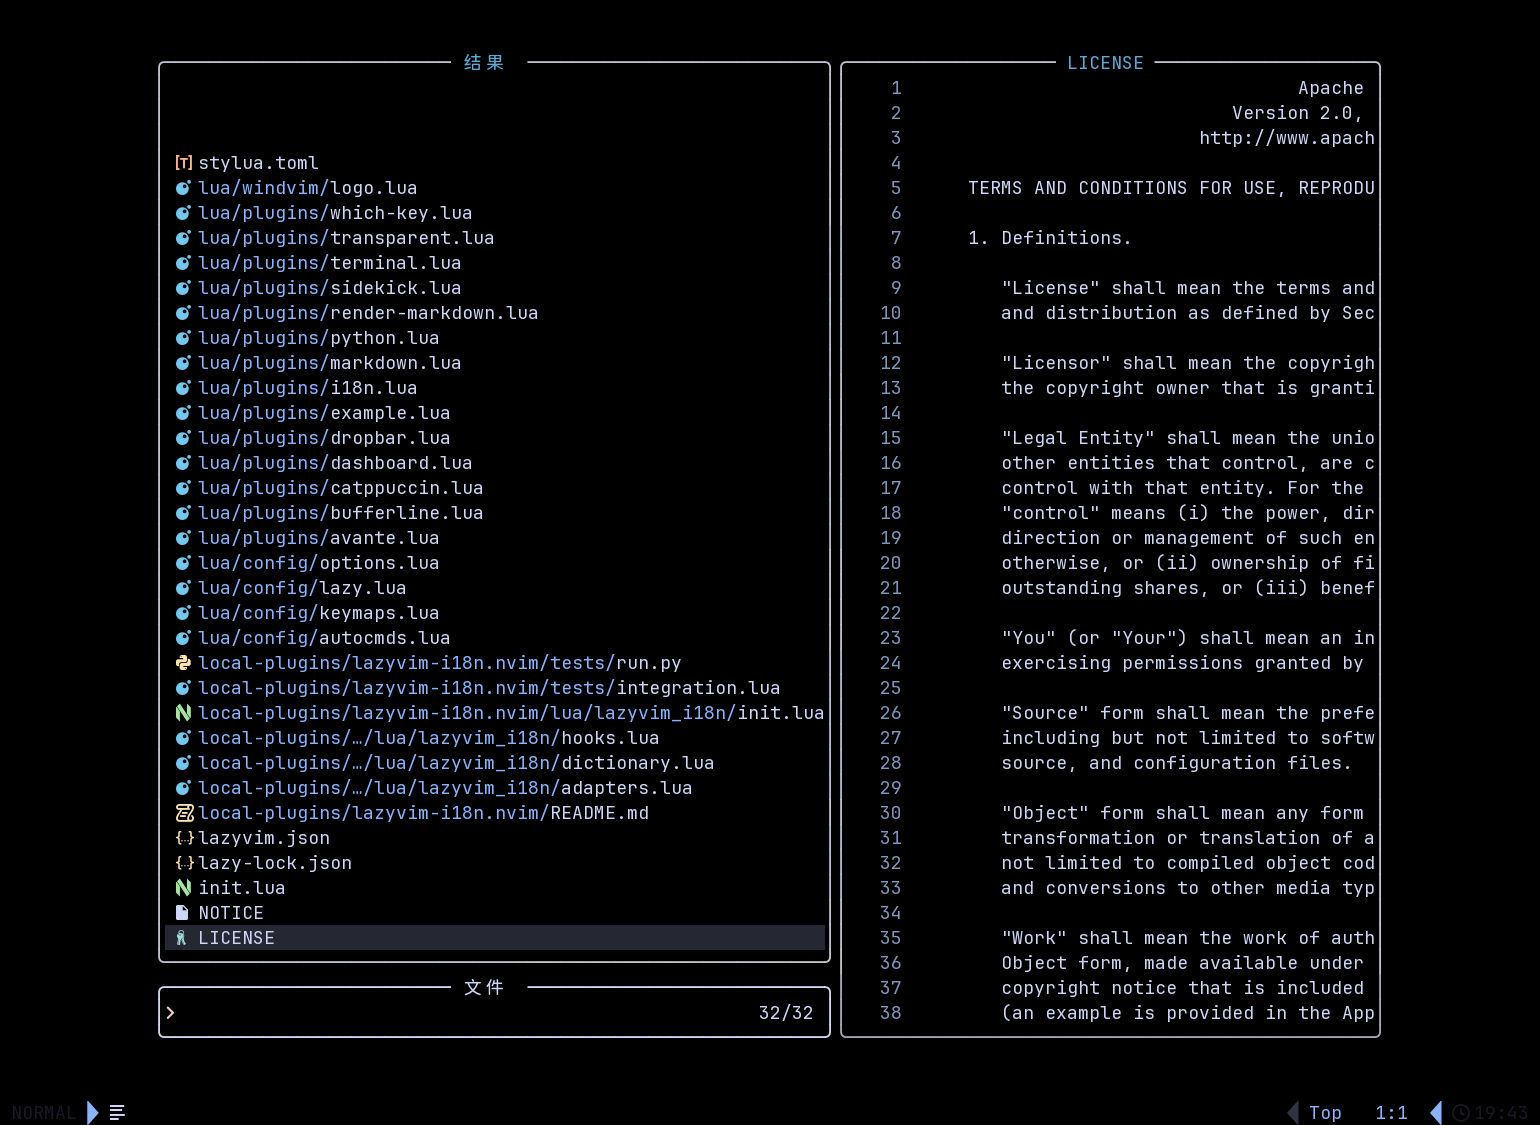
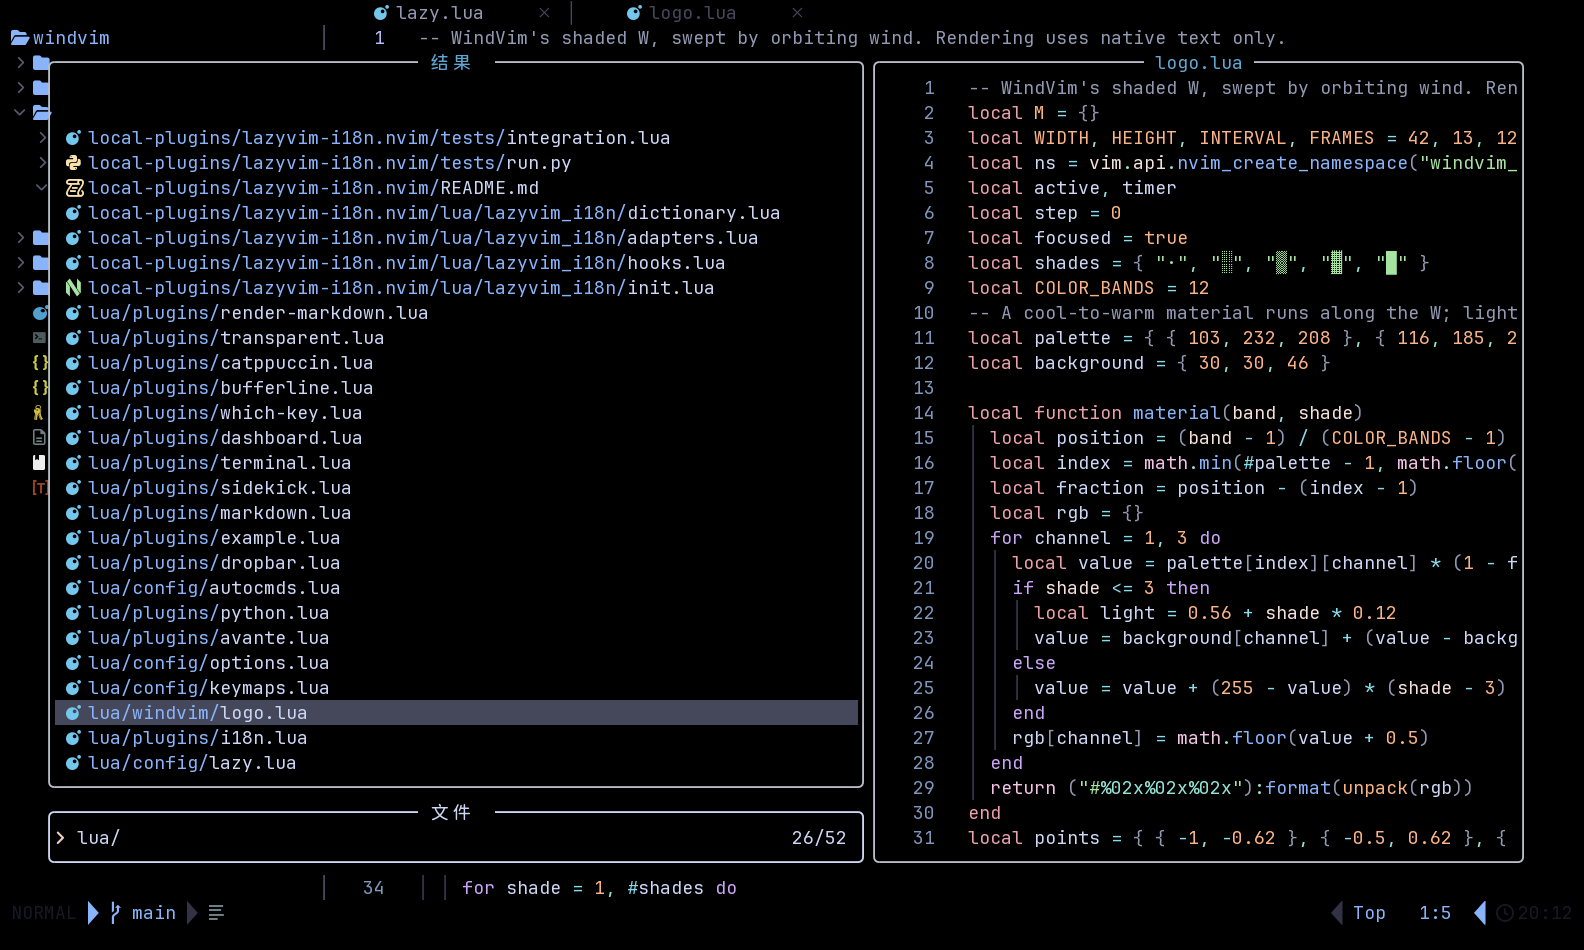
docs(demo): 使用真实项目工作区重录演示素材
展示 WindVim 目录树、动态启动页、源码编辑与代码搜索，全宽展示截图以提升可读性。

增加可复现的隔离录制入口，使用逐帧确认与字形缓存确保素材完整生成；本机配置保持不变。

diff --git a/local-plugins/lazyvim-i18n.nvim/tests/run.py b/local-plugins/lazyvim-i18n.nvim/tests/run.py
@@ -11,7 +11,7 @@ import pynvim
 from PIL import Image, ImageDraw, ImageFont
 
 root = Path(__file__).resolve().parents[3]
-os.chdir(root)
+os.chdir(os.environ.get("I18N_TEST_CWD", root))
 output = Path(os.environ.get("I18N_SCREENSHOT_DIR", root / ".tests/i18n")).resolve()
 output.mkdir(parents=True, exist_ok=True)
 font_candidates = [
@@ -29,6 +29,7 @@ braille_path = os.environ.get("I18N_BRAILLE_FONT", "/usr/share/fonts/TTF/DejaVuS
 braille_font = ImageFont.truetype(braille_path, 18) if Path(braille_path).is_file() else font
 grids, colors = {}, {0: {}}
 animation_frames = []
+glyph_masks = {}
 default_fg, default_bg = "#cdd6f4", "#1e1e2e"
 
 
@@ -72,7 +73,7 @@ def notification(method, args):
                             grids[grid][row][col] = (cell[0], hl)
                             col += 1
     elif method == "i18n_snapshot":
-        rows = grids[1]
+        rows = args[1] if len(args) > 1 else grids[1]
         image = Image.new("RGB", (len(rows[0]) * 11, len(rows) * 25), default_bg)
         draw = ImageDraw.Draw(image)
         for y, row in enumerate(rows):
@@ -88,9 +89,16 @@ def notification(method, args):
                 fg = color(attrs.get("background" if attrs.get("reverse") else "foreground"), default_fg)
                 cell_font = braille_font if char and 0x2800 <= ord(char[0]) <= 0x28FF else font
                 if char.strip():
-                    draw.text((x * 11, y * 25), char, font=cell_font, fill=fg)
+                    key = (char, cell_font is braille_font)
+                    if key not in glyph_masks:
+                        mask = Image.new("L", (33, 25))
+                        ImageDraw.Draw(mask).text((0, 0), char, font=cell_font, fill=255)
+                        glyph_masks[key] = mask
+                    image.paste(fg, (x * 11, y * 25, x * 11 + 33, y * 25 + 25), glyph_masks[key])
         if args[0] == "dashboard-animation":
             animation_frames.append(image.convert("P", palette=Image.Palette.ADAPTIVE, colors=64))
+            if len(animation_frames) % 12 == 0:
+                print(f"Captured animation: {len(animation_frames)} frames", flush=True)
         else:
             image.save(output / f"{args[0]}.png")
 
@@ -109,11 +117,19 @@ with tempfile.TemporaryDirectory(prefix="windvim-i18n-test-") as tmp:
     nvim = pynvim.attach(
         "child", argv=[os.environ.get("NVIM_BIN", "nvim"), "--embed", "-i", "NONE", "--cmd", disable_checker]
     )
-    nvim.ui_attach(140, 45, rgb=True, ext_linegrid=True)
+    nvim.ui_attach(int(os.environ.get("I18N_UI_WIDTH", "140")),
+                   int(os.environ.get("I18N_UI_HEIGHT", "45")), rgb=True, ext_linegrid=True)
     nvim.vars["i18n_test_channel"] = nvim.channel_id
-    nvim.exec_lua('dofile("local-plugins/lazyvim-i18n.nvim/tests/integration.lua")')
+    test_script = os.environ.get("I18N_TEST_SCRIPT", "local-plugins/lazyvim-i18n.nvim/tests/integration.lua")
+    nvim.exec_lua("dofile(...)", test_script)
+    def request(method, args):
+        if method != "i18n_snapshot":
+            raise RuntimeError(f"Unexpected Neovim request: {method}")
+        notification(method, args)
+        return True
+
     try:
-        nvim.run_loop(None, notification)
+        nvim.run_loop(request, notification)
     except EOFError:
         pass
     report = result.read_text() if result.exists() else "FAIL: Neovim exited without a result"

diff --git a/scripts/screenshots.py b/scripts/screenshots.py
@@ -1,0 +1,41 @@
+"""Capture WindVim itself in a temporary installation and a disposable project clone.
+
+uv run --with pynvim --with pillow python scripts/screenshots.py
+WINDVIM_DEMO_DATA can point to a compatible, already installed plugin cache.
+"""
+from pathlib import Path
+import os
+import subprocess
+import tempfile
+import time
+
+root = Path(__file__).resolve().parents[1]
+data_home = Path(os.environ.get('XDG_DATA_HOME', Path.home() / '.local/share'))
+cache = Path(os.environ.get('WINDVIM_DEMO_DATA', data_home / 'windvim')).expanduser().resolve()
+if not (cache / 'lazy/lazy.nvim').is_dir():
+    raise SystemExit('Start WindVim to install plugins first, or set WINDVIM_DEMO_DATA to an existing data directory')
+with tempfile.TemporaryDirectory(prefix='windvim-screenshots-') as tmp:
+    base = Path(tmp)
+    project = base / 'project/windvim'
+    subprocess.run(['git', 'clone', '--quiet', '--shared', str(root), str(project)], check=True)
+    env = dict(os.environ, XDG_CONFIG_HOME=str(base / 'config'), XDG_DATA_HOME=str(base / 'data'),
+               XDG_STATE_HOME=str(base / 'state'), XDG_CACHE_HOME=str(base / 'cache'),
+               UV_CACHE_DIR=str(Path(os.environ.get('UV_CACHE_DIR', Path.home() / '.cache/uv'))),
+               NVIM_APPNAME='windvim', I18N_TEST_CWD=str(project),
+               I18N_TEST_SCRIPT=str(root / 'scripts/screenshots.lua'),
+               I18N_SCREENSHOT_DIR=str(root / 'docs/screenshots'), I18N_UI_WIDTH='144', I18N_UI_HEIGHT='38')
+    env.pop('NO_COLOR', None)
+    subprocess.run(['bash', str(root / 'install.sh'), '--no-launcher'], env=env, check=True)
+    data = base / 'data/windvim'
+    data.mkdir(parents=True)
+    for name in ['lazy', 'site', 'mason']:
+        if (cache / name).is_dir():
+            (data / name).symlink_to(cache / name, target_is_directory=True)
+    started = time.time()
+    subprocess.run([os.sys.executable, str(root / 'local-plugins/lazyvim-i18n.nvim/tests/run.py')],
+                   env=env, check=True, timeout=120)
+    for name in ['dashboard-zh.png', 'dashboard-en.png', 'dashboard-animation.gif', 'project-code.png',
+                 'which-key-zh.png', 'picker-zh.png', 'lazy-zh.png']:
+        path = root / 'docs/screenshots' / name
+        if not path.is_file() or path.stat().st_mtime < started:
+            raise RuntimeError(f'Screenshot was not refreshed: {name}')

diff --git a/docs/GALLERY.md b/docs/GALLERY.md
@@ -2,19 +2,36 @@
 
 [返回首页](../README.md)
 
-以下图片由实际 Neovim UI 网格捕获，使用仓库锁定的插件版本；终端背景与字体会影响最终效果。
+以 WindVim 自身的源码项目作为演示，展示目录浏览、代码编辑、中文菜单和文件搜索。以下画面均来自实际 Neovim 界面。
 
-![WindVim 动态启动页](screenshots/dashboard-animation.gif)
+## 项目目录与动态启动页
 
-![WindVim 中文启动页](screenshots/dashboard-zh.png)
+![项目目录与动态启动页](screenshots/dashboard-animation.gif)
 
-<table>
-  <tr>
-    <td><img src="screenshots/which-key-zh.png" alt="中文快捷键菜单" /><br /><strong>中文快捷键菜单</strong> · 原有键位与动作保留</td>
-    <td><img src="screenshots/picker-zh.png" alt="中文文件选择器" /><br /><strong>文件选择器</strong> · 中文标题与路径原文</td>
-  </tr>
-  <tr>
-    <td><img src="screenshots/lazy-zh.png" alt="中文 Lazy 插件管理器" /><br /><strong>插件管理</strong> · 汉化常用操作与帮助</td>
-    <td><img src="screenshots/dashboard-en.png" alt="英文启动页" /><br /><strong>运行时切换英文</strong> · 自动保存语言选择</td>
-  </tr>
-</table>
+## 项目代码编辑
+
+左侧浏览项目目录，右侧编辑动态标识的 Lua 源码，顶部显示已打开的文件。
+
+![项目代码编辑](screenshots/project-code.png)
+
+## 中文快捷键菜单
+
+在编辑界面中查看文件导航相关快捷键。
+
+![中文文件导航快捷键](screenshots/which-key-zh.png)
+
+## 文件搜索与代码预览
+
+在项目中查找 Lua 文件，并直接预览对应源码。
+
+![项目文件搜索与代码预览](screenshots/picker-zh.png)
+
+## 插件管理
+
+![中文插件管理](screenshots/lazy-zh.png)
+
+## 英文界面
+
+同一个项目工作区可以切换为英文。
+
+![英文项目启动页](screenshots/dashboard-en.png)

diff --git a/spec/06-modules/presentation/spec.md b/spec/06-modules/presentation/spec.md
@@ -42,3 +42,12 @@
 - W 主体使用薄荷青 → 天蓝 → 鸢尾紫 → 柔粉的固定空间配色，保留五档深度明暗；风环降低亮度，粒子使用暖金色。静态 SVG 标识沿用同一色板。
 - 保留图形、动画与菜单行为，只改变 WindVim 项目配色；本机配置和 dotfiles 保持不变。
 - 验证：26 个 Lua 文件 / 3 个 JSON 检查与实际 UI 集成通过，重录 48 帧动图并同步截图；实际终端界面及 SVG 图标已查看。60 档主体颜色相对 Catppuccin 背景的最低对比度为 4.03:1；本地链接与原配置摘要检查通过。
+
+## 项目演示追加
+
+- 演示打开 WindVim 自身的项目，左侧真实目录树，右侧展示启动页或源码。搜索预览选择 logo.lua，避免预览 LICENSE。
+- README 和图库使用全宽图片，移除过小的并排缩略图；汉化测试与文档演示录制使用独立入口。
+- 在临时项目克隆与独立 XDG 配置中录制，保留原本机配置和 dotfiles。
+- 验证：项目演示脚本返回 PASS，实际查看目录树与彩色启动页、源码编辑、中文快捷键、Lua 代码搜索预览；六张静态图与 48 帧动图已更新。图片尺寸为 1584 × 950，全宽展示。
+- 新增 `scripts/screenshots.py` / `scripts/screenshots.lua`，在临时克隆与隔离配置中复现同一项目场景；按真实屏幕字符与高亮属性捕获。逐帧确认与字形缓存保证录制完成并避免旧图片残留；录制中只在临时进程关闭通知浮层。
+- 原汉化 UI 测试仍返回 PASS；27 个 Lua 文件 / 3 个 JSON、Python 编译及 Markdown 本地引用检查通过；生产配置文件无改动，本机配置和 dotfiles 摘要一致。

diff --git a/README.md b/README.md
@@ -27,14 +27,13 @@ WindVim 是基于 [LazyVim](https://github.com/LazyVim/LazyVim) 的个人定制 
 - **完整的视觉定制**：Catppuccin 透明主题、Markdown 渲染与专属动态启动页，彩色 W 标识搭配有深度的风环与流动粒子。
 - **配置独立、方便修改**：安装时保护已有目录，显式覆盖会先备份；主题、快捷键与本地汉化层都可单独调整。
 
-![WindVim 动态启动页](docs/screenshots/dashboard-animation.gif)
+![项目目录与动态启动页](docs/screenshots/dashboard-animation.gif)
 
-<table>
-  <tr>
-    <td><img src="docs/screenshots/which-key-zh.png" alt="中文快捷键菜单"><br>中文快捷键菜单</td>
-    <td><img src="docs/screenshots/picker-zh.png" alt="文件搜索与预览"><br>文件搜索与预览</td>
-  </tr>
-</table>
+打开项目后，可以在目录树、代码编辑和搜索预览之间切换：
+
+![项目代码编辑](docs/screenshots/project-code.png)
+
+![项目文件搜索与代码预览](docs/screenshots/picker-zh.png)
 
 更多界面见[截图集](docs/GALLERY.md)。
 

diff --git a/spec/README.md b/spec/README.md
@@ -1,6 +1,6 @@
 # WindVim 开发规格
 
-当前状态：W 风环与粒子动画、适度丰富的 README、未来 GitHub 安装/更新说明已完成，动静态 UI 与本地保护检查通过；仅修改项目，保留本机配置和 dotfiles。
+当前状态：以 WindVim 项目展示目录树、彩色动态启动页、代码编辑与搜索预览，README 和图库改为全宽截图；录制与回归检查通过，保留本机配置和 dotfiles。
 
 - [原始输入](01-inputs/user-prompts.md)
 - [项目标识与 README](06-modules/presentation/spec.md)

diff --git a/spec/01-inputs/user-prompts.md b/spec/01-inputs/user-prompts.md
@@ -49,3 +49,9 @@
 > [Image #1]颜色可以改为彩色的，但是要设计的好看一点，logo
 
 附件：`/tmp/codex-clipboard-3fNaEN.png`（当前动态 W 标识截图）。
+
+## 2026-10-22 · 项目演示截图
+
+> [Image #1]演示的截图调整一下，现在不太好看，可以打开一个项目，例如这样做演示[Image #2]
+
+附件：`/tmp/codex-clipboard-I0jGIa.png`（当前并排预览）；`/tmp/codex-clipboard-X5TVbC.png`（项目目录树与启动页示例）。
